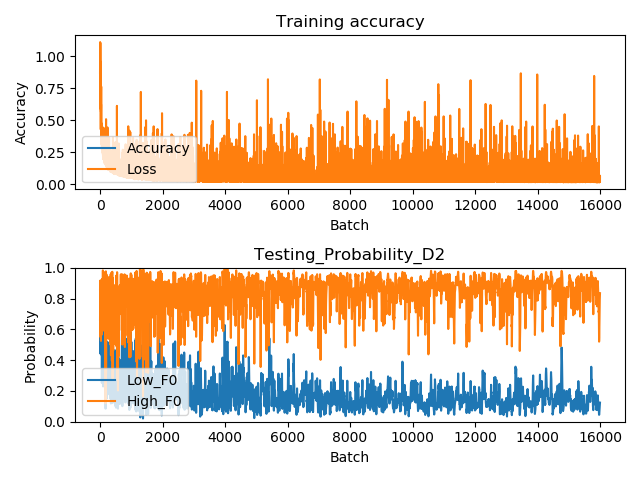
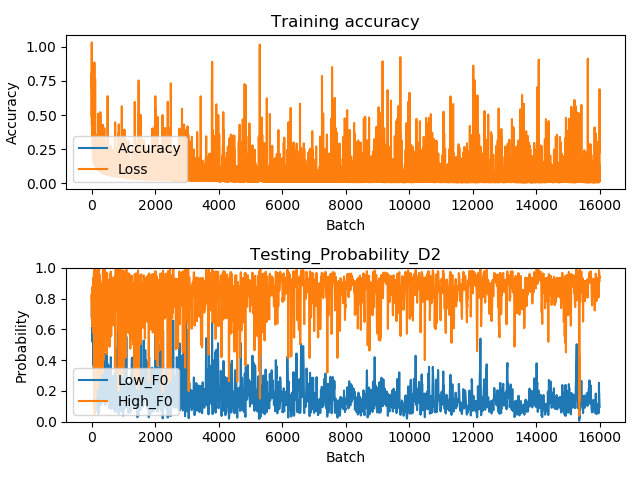
after more experimentation, this parameter set with 0.0005 and 91 seems to give the best result yet.

diff --git a/compare.py b/compare.py
@@ -41,7 +41,7 @@ PRETRAIN_EPOCHs = 10
 EXPOSURE_BATCH_SIZE = 10
 EXPOSURE_EPOCHS = 20
 
-penalty = 0.0009
+penalty = 0.0005
 lr_slow = 1
 lr_fast = 91
 
@@ -105,7 +105,7 @@ n_exp = 1
 SUPERVISED MODEL
 
 '''
-j = 9
+j = 5
 
 
 
